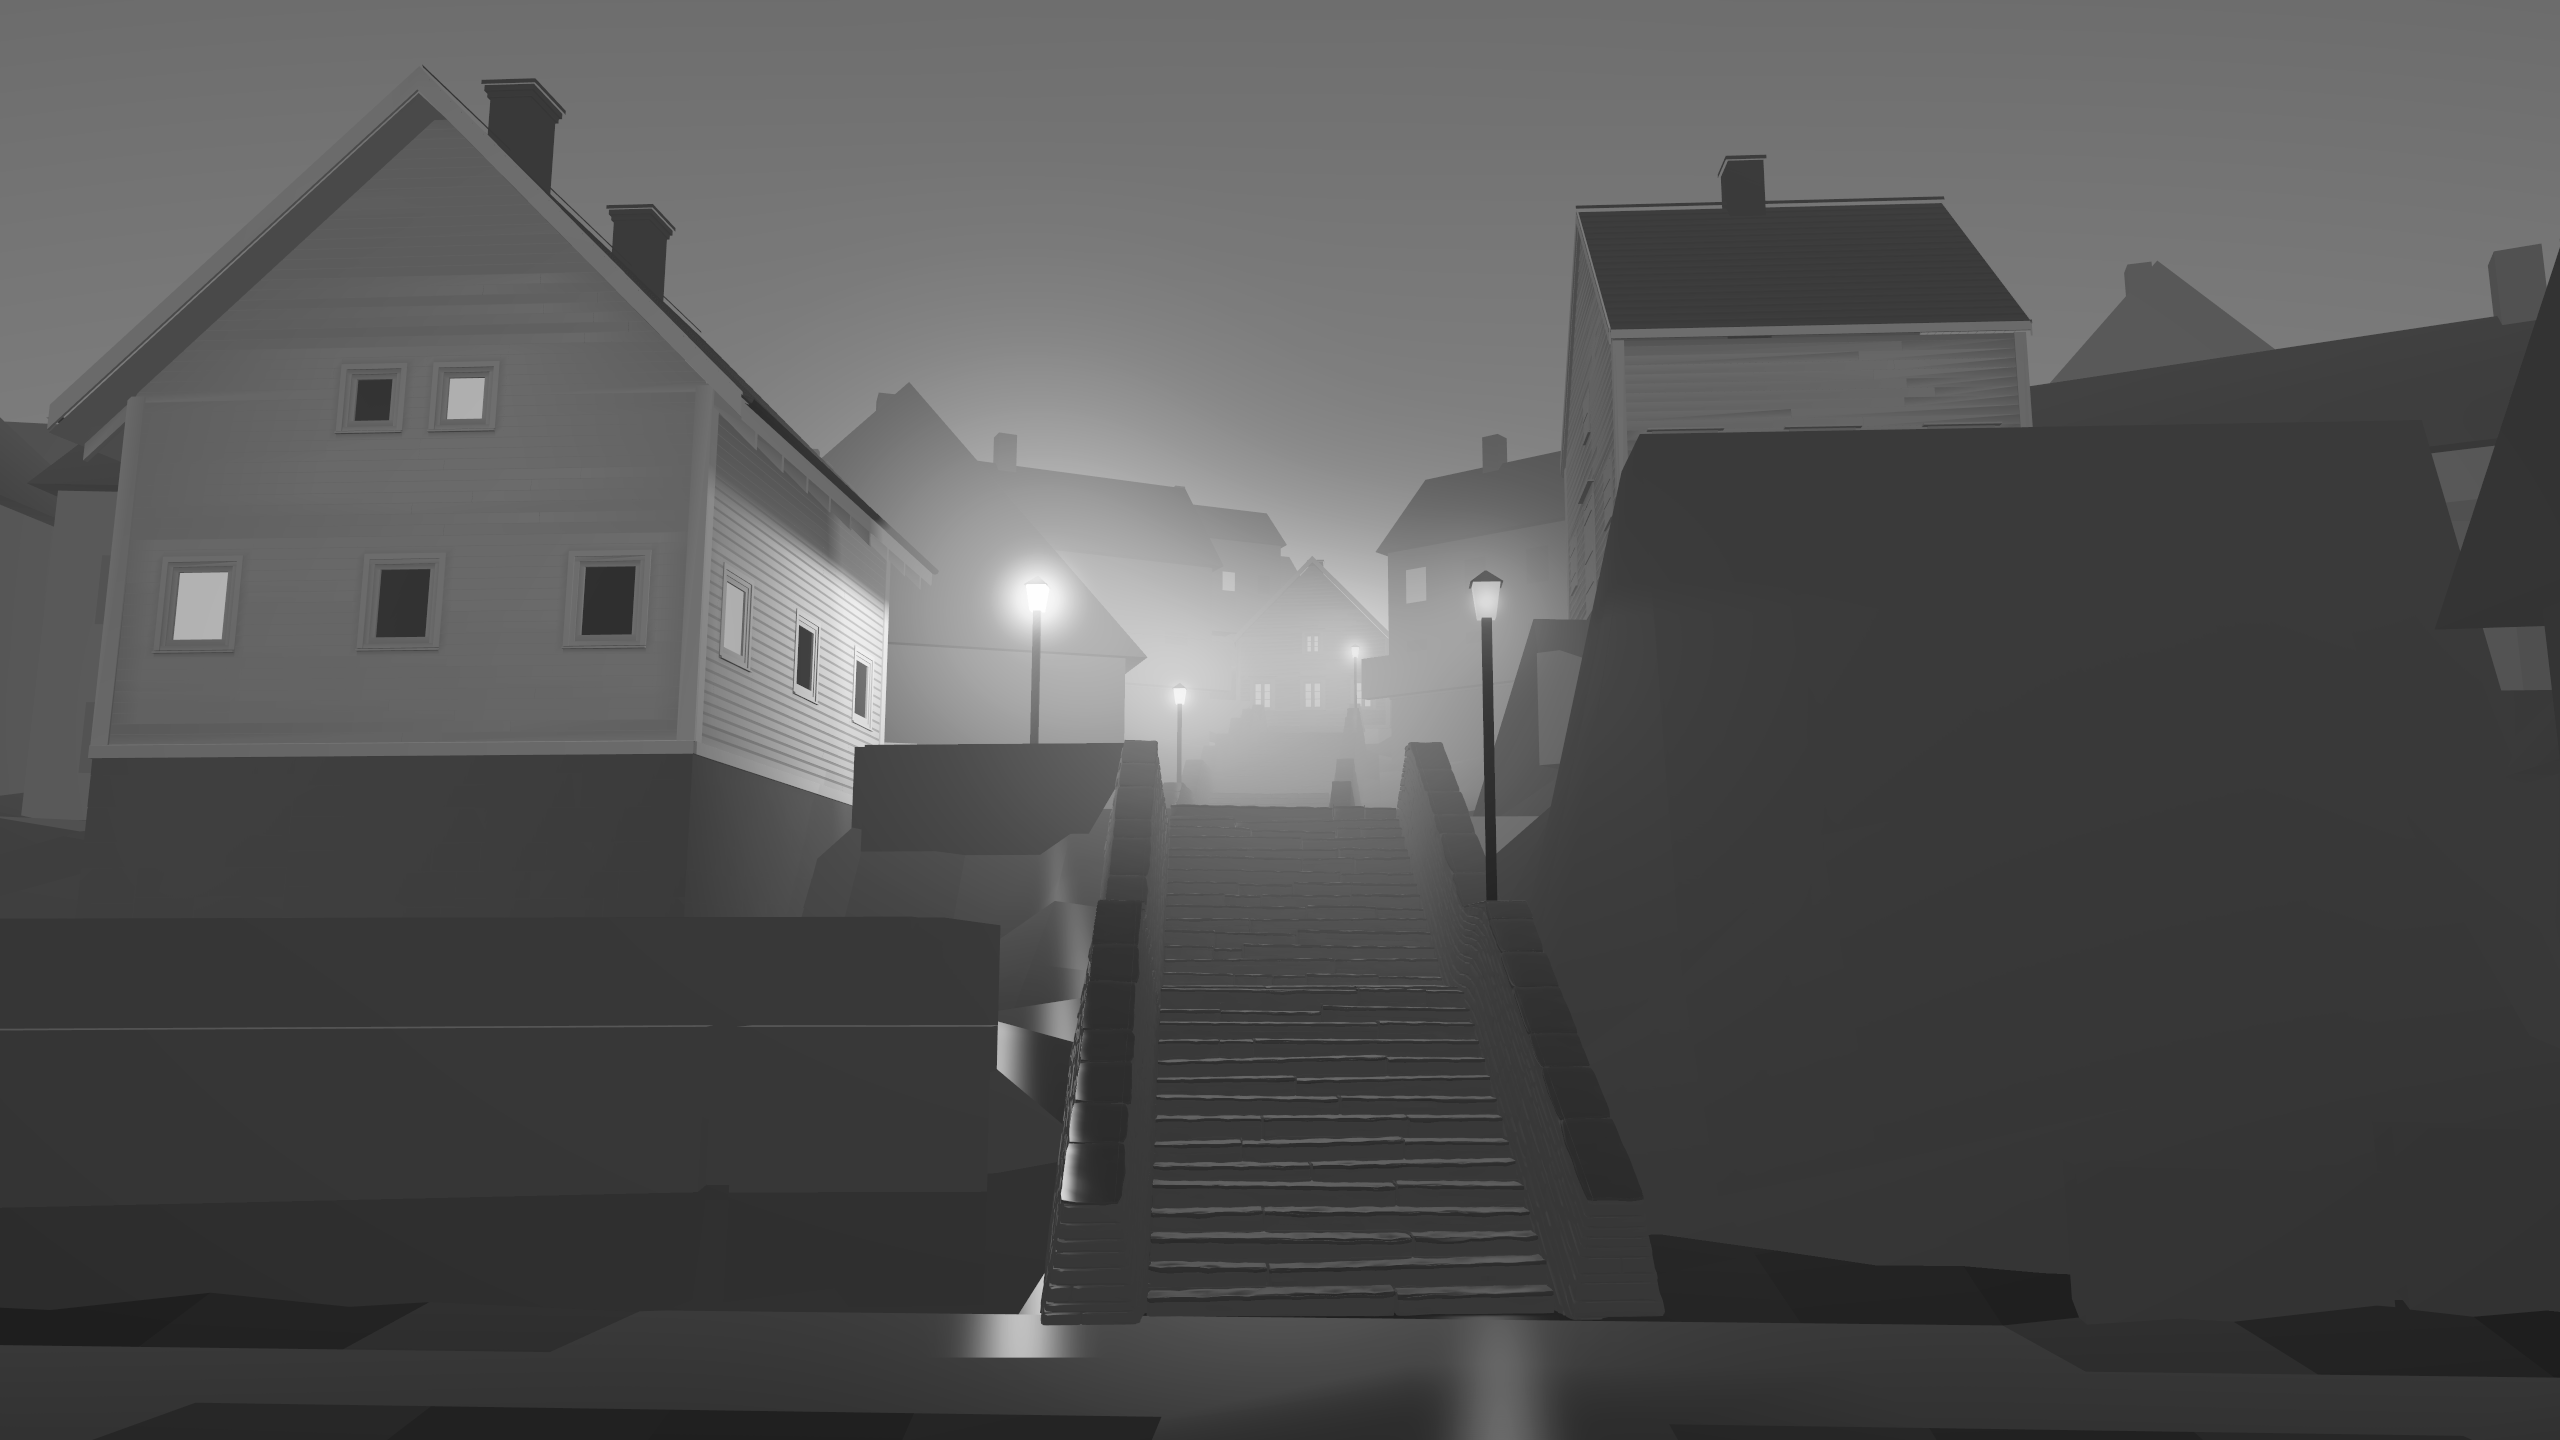
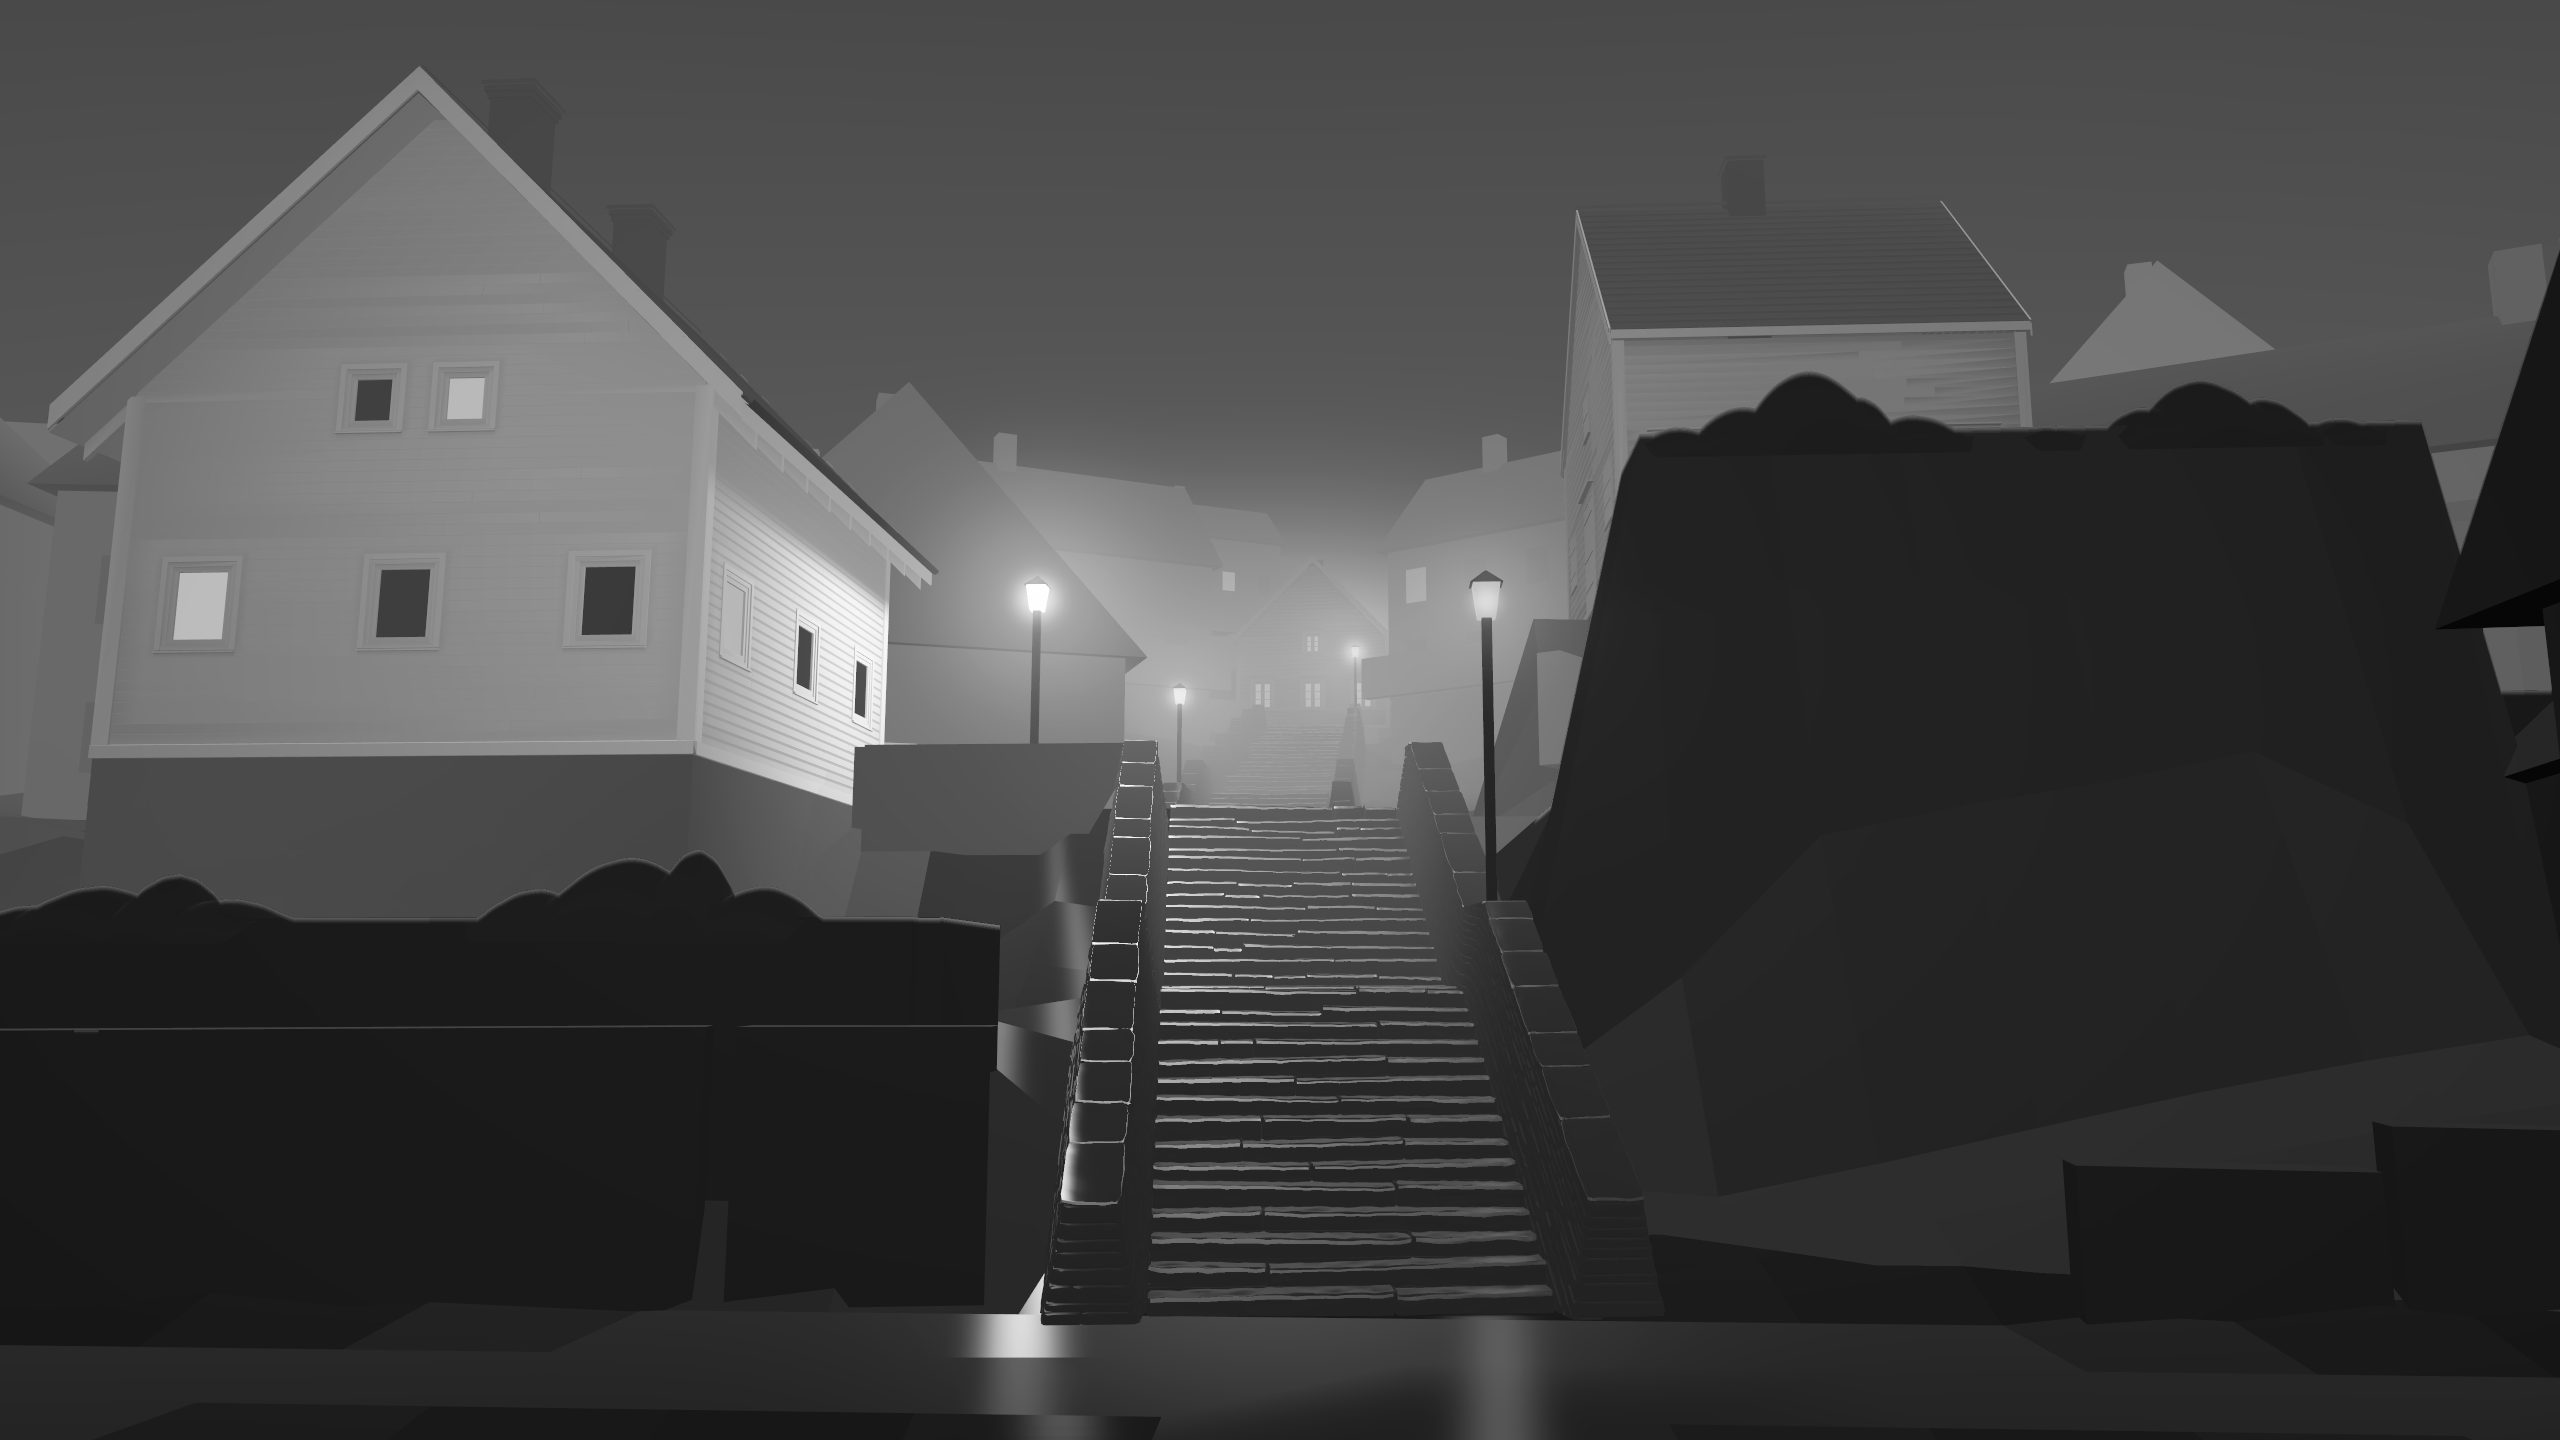
LT1: art direction: the painted corner re-planned (dark curtain, slate key, lit fog, nose ladder, found edges, tufts)

diff --git a/unity/Assets/Code/Editor/LT1ArtPasses.cs b/unity/Assets/Code/Editor/LT1ArtPasses.cs
@@ -166,8 +166,9 @@ namespace Overstory.EditorTools
         [System.Serializable] class PClay { public int wall, ground, roof, glass; public float[] roofNz; }
         [System.Serializable] class PHide { public float[] box; public int cls; }
         [System.Serializable] class PCover { public string name; public int slot; }
+        [System.Serializable] class PTuft { public string name; public int slot; public float[] from, to, lumps; public float depth, overhang, drop; public float shape = 0.6f; }
         [System.Serializable] class PLantern { public float post, glassH, glassBottom, glassTop, capH, capW; public int glassSlot, metalSlot; }
-        [System.Serializable] class PLamp { public string id, srgb; public float[] @base, head, halo; public float power, white, haloStrength; }
+        [System.Serializable] class PLamp { public string id, srgb; public float[] @base, head, halo; public float[] fill = new float[2]; public string fillSrgb; public float power, white, haloStrength; public float @catch = 1f; }
         [System.Serializable]
         class PaintData
         {
@@ -182,6 +183,7 @@ namespace Overstory.EditorTools
             public PHide[] hide;
             public PCover[] covers;
             public PLantern lantern;
+            public PTuft[] tufts;
             public PLamp[] lamps;
         }
         // the houses' records (cache/houses/houses.json): only what the painted frame reads, their coats and roofs
@@ -424,7 +426,11 @@ namespace Overstory.EditorTools
                 // the lamps at their places: each a 1955 lantern (post, glass, cap) with its light, shadowed
                 var lampPos = new Vector4[8];
                 var lampHalo = new Vector4[8];
+                var lampFill = new Vector4[8];
+                var lampCatch = new Vector4[8];
                 float lampReach = globals.TryGetValue("_P_Pool", out var pool) ? pool.w : 16f;
+                // the light reaches as far as its streak holds on the wet (the pool's own reach is the shader's)
+                float lightReach = lampReach * (globals.TryGetValue("_P_Streak", out var streak) ? Mathf.Max(1f, streak.w) : 1f);
                 var lt = P.lantern;
                 for (int k = 0; k < P.lamps.Length && k < 8; k++)
                 {
@@ -442,15 +448,24 @@ namespace Overstory.EditorTools
                     ColorUtility.TryParseHtmlString(lamp.srgb, out var lc);
                     light.color = lc;
                     light.intensity = lamp.power;
-                    light.range = lampReach;
+                    light.range = lightReach;
                     light.shadows = LightShadows.Soft;
                     light.shadowNearPlane = 0.05f;
                     var hc = LinearOf(lamp.srgb) * lamp.haloStrength;
                     lampPos[k] = new Vector4(head.x, head.y, head.z, lamp.halo[0]);
                     lampHalo[k] = new Vector4(hc.r, hc.g, hc.b, lamp.halo[1]);
+                    var fc = LinearOf(string.IsNullOrEmpty(lamp.fillSrgb) ? lamp.srgb : lamp.fillSrgb) * (lamp.fill != null && lamp.fill.Length > 0 ? lamp.fill[0] : 0f);
+                    lampCatch[k] = new Vector4(lamp.@catch, 0f, 0f, 0f);
+                    lampFill[k] = new Vector4(fc.r, fc.g, fc.b, lamp.fill != null && lamp.fill.Length > 1 ? lamp.fill[1] : 1f);
                 }
+                // the designed mats of heather and grass breaking the curtain's straight tops
+                if (P.tufts != null)
+                    foreach (var tf in P.tufts)
+                        Part(root, made, paint, $"tuft {tf.name}", Tuft(tf), 9f, 0f, tf.slot);
                 Shader.SetGlobalVectorArray("_P_LampPos", lampPos);
                 Shader.SetGlobalVectorArray("_P_LampHalo", lampHalo);
+                Shader.SetGlobalVectorArray("_P_LampFill", lampFill);
+                Shader.SetGlobalVectorArray("_P_LampCatch", lampCatch);
                 Shader.SetGlobalFloat("_P_LampCount", Mathf.Min(P.lamps.Length, 8));
 
                 // the colour and the distance, each supersampled and anti-aliased; then the air over both
@@ -593,7 +608,7 @@ namespace Overstory.EditorTools
 
         /// <summary>One part of a lantern: its mesh drawn with the painted surface as a class, casting no shadow (the
         /// lamp's light sits inside it).</summary>
-        static void Part(GameObject root, List<Object> made, Material paint, string name, Mesh mesh, float cls, float emit)
+        static void Part(GameObject root, List<Object> made, Material paint, string name, Mesh mesh, float cls, float emit, float slot = 0f)
         {
             made.Add(mesh);
             var g = new GameObject(name);
@@ -605,7 +620,54 @@ namespace Overstory.EditorTools
             var b = new MaterialPropertyBlock();
             b.SetFloat(ClassId, cls);
             b.SetFloat("_Emit", emit);
+            b.SetFloat("_Slot", slot);
             mr.SetPropertyBlock(b);
+        }
+
+        /// <summary>A designed mat of heather or grass along a straight top edge (Paint.json, tufts): a run of rounded
+        /// lumps (along, half width, height in metres), each section an arch from just over the lip, draped a little
+        /// down its face, back into the top. Its silhouette is the point: few, large shapes, no texture.</summary>
+        static Mesh Tuft(PTuft tf)
+        {
+            Vector3 a = Street(tf.from), b = Street(tf.to);
+            Vector3 run = b - a;
+            float len = run.magnitude;
+            Vector3 along = run / Mathf.Max(len, 1e-4f);
+            Vector3 back = Vector3.Cross(along, Vector3.up).normalized;
+            int N = Mathf.Max(2, Mathf.CeilToInt(len / 0.04f)), M = 12;
+            var v = new List<Vector3>();
+            var t = new List<int>();
+            for (int i = 0; i <= N; i++)
+            {
+                float u = len * i / N, h = 0f;
+                for (int k = 0; k + 2 < tf.lumps.Length; k += 3)
+                {
+                    float q = (u - tf.lumps[k]) / Mathf.Max(tf.lumps[k + 1], 1e-3f);
+                    if (q * q < 1f)
+                        h = Mathf.Max(h, tf.lumps[k + 2] * Mathf.Pow(1f - q * q, tf.shape));
+                }
+                float sc = Mathf.Clamp01(h / 0.12f);
+                for (int j = 0; j <= M; j++)
+                {
+                    float th = Mathf.PI * j / M;
+                    float yb = -tf.overhang * sc + (tf.depth + tf.overhang * sc) * (1f - Mathf.Cos(th)) * 0.5f;
+                    float zc = -tf.drop * sc + (h + tf.drop * sc) * Mathf.Sin(th);
+                    v.Add(a + along * u + back * yb + Vector3.up * zc);
+                }
+            }
+            for (int i = 0; i < N; i++)
+                for (int j = 0; j < M; j++)
+                {
+                    int p00 = i * (M + 1) + j, p01 = p00 + 1, p10 = p00 + M + 1, p11 = p10 + 1;
+                    t.Add(p00); t.Add(p01); t.Add(p10);
+                    t.Add(p10); t.Add(p01); t.Add(p11);
+                }
+            var mesh = new Mesh { name = tf.name, indexFormat = UnityEngine.Rendering.IndexFormat.UInt32 };
+            mesh.SetVertices(v);
+            mesh.SetTriangles(t, 0);
+            mesh.RecalculateNormals();
+            mesh.RecalculateBounds();
+            return mesh;
         }
 
         /// <summary>A square frustum round a vertical axis (Unity metres): from y0 at half width r0 to y1 at r1, flat
